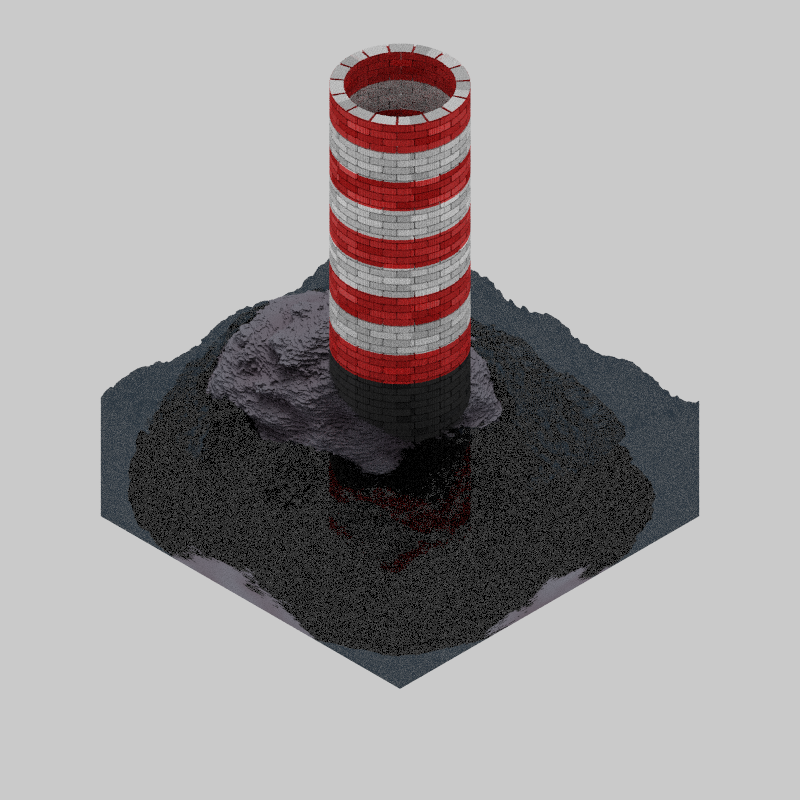
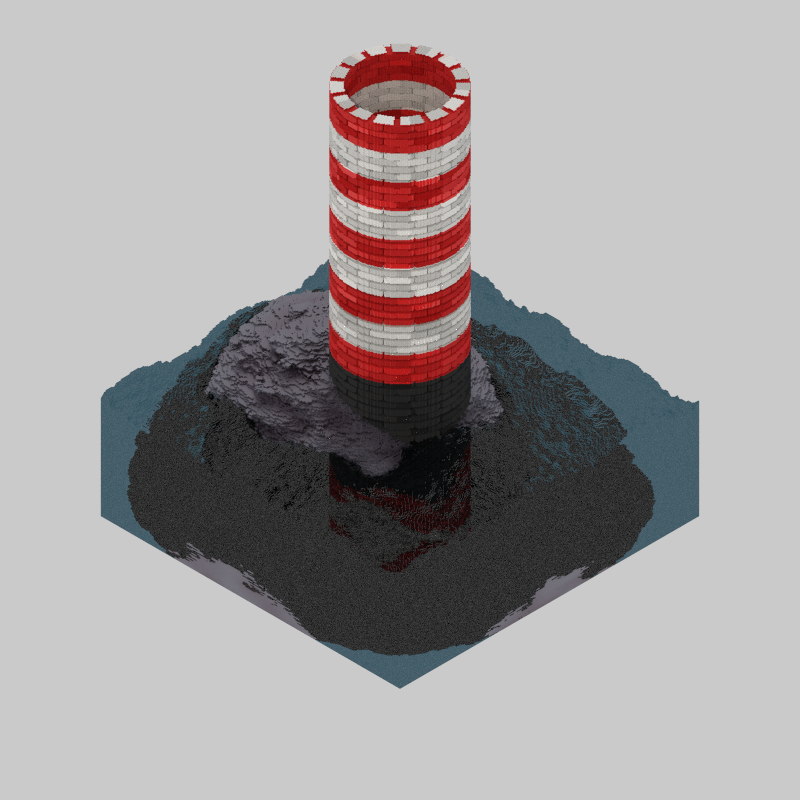
config sun_dir / emission

Changed region(s): [[0.125, 0.0312, 0.875, 0.875]]

diff --git a/shapezlib/src/voxel/renderer/bsdf.rs b/shapezlib/src/voxel/renderer/bsdf.rs
@@ -4,6 +4,8 @@ use rand::Rng;
 
 pub struct BSDF {
     background_color: Vec3<F>,
+    sun_dir: Option<Vec3<F>>,
+    sun_emission: Vec3<F>,
     execution: Execution,
 }
 
@@ -14,6 +16,8 @@ impl Renderer for BSDF {
     {
         Self {
             background_color: Vec3::broadcast(0.8),
+            sun_dir: None,
+            sun_emission: Vec3::new(1.0, 0.95, 0.9),
             execution: Execution::new(0),
         }
     }
@@ -30,6 +34,16 @@ impl Renderer for BSDF {
     /// Set the background color.
     fn set_background_color(&mut self, color: Vec3<F>) {
         self.background_color = color;
+    }
+
+    // Set the sun_dir.
+    fn set_sun_dir(&mut self, dir: Vec3<F>) {
+        self.sun_dir = Some(dir);
+    }
+
+    // Set the sun_emission.
+    fn set_sun_emission(&mut self, emission: Vec3<F>) {
+        self.sun_emission = emission;
     }
 
     /// Set the execution.
@@ -119,7 +133,63 @@ impl Renderer for BSDF {
                 // Emissive materials
                 radiance += state.mat.emission * state.mat.base_color * throughput;
 
-                // Sample Lights ...
+                // Sample sunlight if set
+                if let Some(sun_dir) = &self.sun_dir {
+                    let mut light_sample = BSDFLightSampleRec::default();
+                    let mut scatter_sample = BSDFScatterSampleRec::default();
+
+                    let scatter_pos = state.fhp + state.normal * 0.006;
+
+                    let l = BSDFLight {
+                        position: *sun_dir,
+                        emission: self.sun_emission,
+                        radius: 0.0,
+                        type_: 1.0,
+                        u: Vec3::zero(),
+                        v: Vec3::zero(),
+                        area: 0.0,
+                    };
+
+                    sample_distant_light(&l, scatter_pos, &mut light_sample, 1);
+
+                    let li = light_sample.emission;
+
+                    let mut in_sun_shadow = 1.0;
+                    let sun_ray = Ray::new(hit.hitpoint, *sun_dir).advanced(0.006);
+
+                    let mut volume = curr_volumetric_material;
+                    loop {
+                        let hit = grid.dda(&sun_ray, volume);
+
+                        if let HitType::Voxel(_) = hit.hit {
+                            if hit.volumetric.is_none() {
+                                in_sun_shadow = 0.0;
+                                break;
+                            } else {
+                                volume = hit.volumetric;
+                            }
+                        } else {
+                            break;
+                        }
+                    }
+
+                    if in_sun_shadow > 0.0 {
+                        scatter_sample.f = disney_eval(
+                            &state,
+                            -ray.dir,
+                            state.ffnormal,
+                            light_sample.direction,
+                            &mut scatter_sample.pdf,
+                        );
+
+                        let mis_weight = 1.0;
+                        if scatter_sample.pdf > 0.0 {
+                            radiance += (mis_weight * li * scatter_sample.f / light_sample.pdf)
+                                * throughput
+                                * in_sun_shadow;
+                        }
+                    }
+                }
 
                 // Sample BSDF for color and outgoing direction
                 scatter_sample.f = disney_sample(

diff --git a/shapezlib/src/shapez.rs b/shapezlib/src/shapez.rs
@@ -86,6 +86,28 @@ impl ShapeZ {
             }
         }
 
+        // If user specified a sun_dir set it to the renderer.
+        if let Some(code) = self.context.global_config.get("sun_dir").cloned() {
+            execution.execute(&code, &mut self.context.program);
+            if let Some(back) = execution.stack.pop() {
+                self.renderer
+                    .write()
+                    .unwrap()
+                    .set_sun_dir(back.as_vec3().normalized());
+            }
+        }
+
+        // If user specified a sun_emission set it to the renderer.
+        if let Some(code) = self.context.global_config.get("sun_emission").cloned() {
+            execution.execute(&code, &mut self.context.program);
+            if let Some(back) = execution.stack.pop() {
+                self.renderer
+                    .write()
+                    .unwrap()
+                    .set_sun_emission(back.as_vec3());
+            }
+        }
+
         // Execute the main program to compile all voxels.
         execution.execute(
             &self.context.program.globals.clone(),

diff --git a/shapezlib/src/voxel/renderer/mod.rs b/shapezlib/src/voxel/renderer/mod.rs
@@ -36,6 +36,12 @@ pub trait Renderer: Send + Sync {
     /// Set the background color.
     fn set_background_color(&mut self, color: Vec3<F>) {}
 
+    // Set the sun_dir.
+    fn set_sun_dir(&mut self, color: Vec3<F>) {}
+
+    // Set the sun_emission.
+    fn set_sun_emission(&mut self, color: Vec3<F>) {}
+
     fn set_execution(&mut self, execution: Execution);
 
     /// Converts an sRGB Vec3 to linear space.

diff --git a/shapezlib/src/ast/parser.rs b/shapezlib/src/ast/parser.rs
@@ -303,7 +303,7 @@ impl Parser {
             self.current_line,
         )?;
 
-        let valid = ["density", "background"];
+        let valid = ["density", "background", "sun_dir", "sun_emission"];
         let id = self.previous().unwrap().lexeme.clone();
 
         if !valid.contains(&id.as_str()) {

diff --git a/shpz/src/main.rs b/shpz/src/main.rs
@@ -18,7 +18,7 @@ fn cli() -> Command {
 }
 
 fn main() {
-    let iterations = 50;
+    let iterations = 500;
 
     let matches = cli().get_matches();
 
